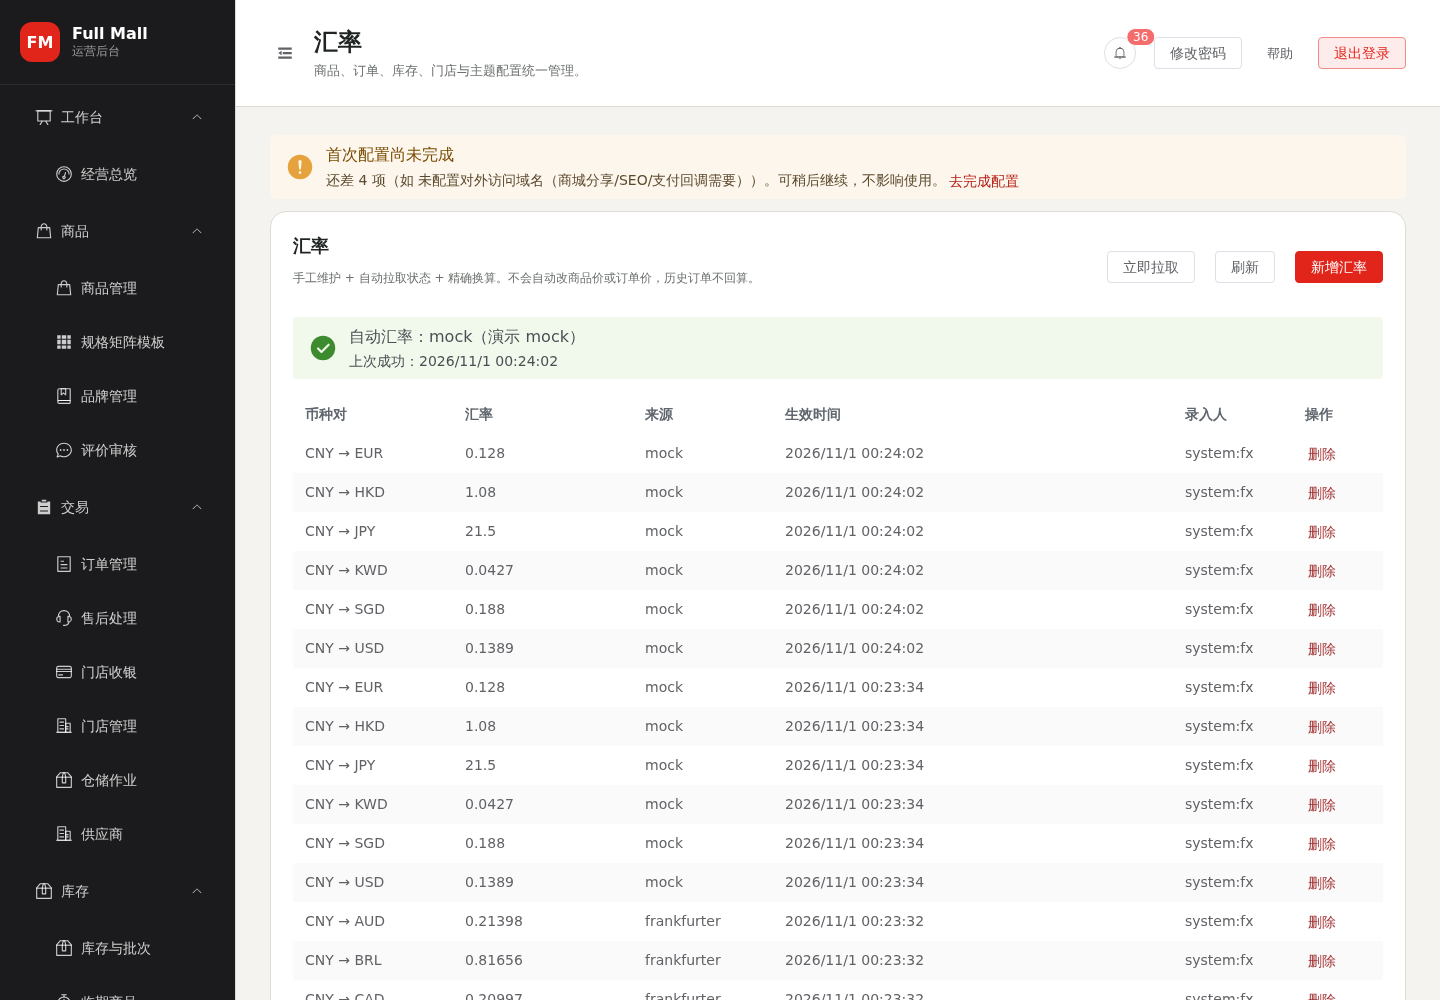
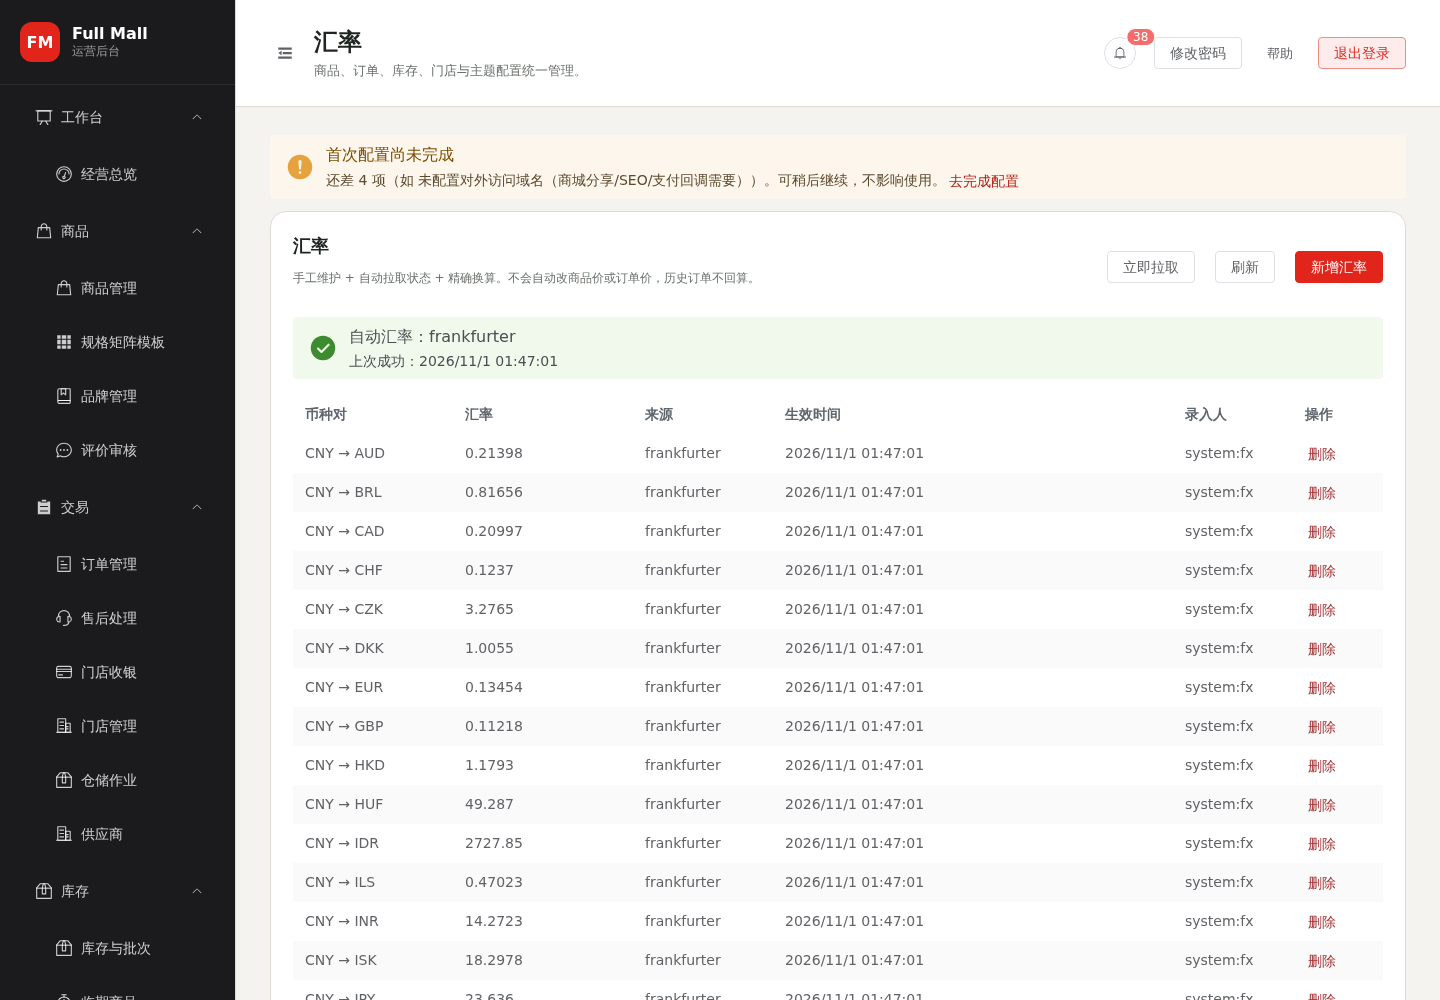
fix(fx): mock 只在 demo 模式未配置时兜底；dev/prod 未配置不自动拉取
用户纠正：Frankfurter 能正常用，不该恢复成 mock——三方服务未配置才用 mock。

- isDemoMock() 去掉 dev：resolveProviderCode 只在 app.mode=demo 且未配置时回 mock
- dev/prod 未配置 → 不自动拉取，继续手工汇率，应用照常启动
- demoMock 语义收紧：只有「未配置任何供应商 + demo」才为 true；显式选 mock 不算演示兜底
- 新增 ExchangeRateFetchModeTest 4 项（dev 不拉取 / demo 用 mock / 配置优先 / prod 未配置不写库）
- ADR-0017、依赖矩阵、ROUND5/新增 ROUND6 证据、SESSION_NOTES、admin 帮助与 HELP_INDEX 同步
- 运行环境 exchange_rate 已改回 frankfurter（api.frankfurter.dev/v1），mock disabled
- 记录 target root 属主坑：Maven 容器必须带 -u $(id -u):$(id -g)

回归：后端 816 tests / 0 failures；Playwright 62 passed / 0 failed / 3 skipped

diff --git a/web/apps/admin/src/help/catalog.ts b/web/apps/admin/src/help/catalog.ts
@@ -375,7 +375,7 @@ export const HELP_ENTRIES: HelpEntry[] = [
     ],
     tips: [
       '没有直接汇率时只允许反向推导（取倒数）；不做 A→B→C 多跳三角换算',
-      '自动拉取失败会保留上次自动/手工汇率；未配置供应商时只用手工汇率，不影响程序其它功能',
+      '自动拉取失败会保留上次自动/手工汇率；未配置供应商时只用手工汇率（只有演示模式才自动回落到 mock），不影响程序其它功能',
       '换算结果按目标币种小数位 HALF_UP（BigDecimal），不是固定两位',
       '汇率是财务配置，权限与系统设置一致（settings.manage）'
     ],

diff --git a/server/src/main/java/com/fullmall/exchange/app/ExchangeRateFetchService.java b/server/src/main/java/com/fullmall/exchange/app/ExchangeRateFetchService.java
@@ -17,8 +17,8 @@ import java.util.Map;
  *
  * <p>行为约定（用户明确要求）：
  * <ul>
- *   <li>生产未配置供应商：**不自动拉取**，继续用手工汇率；应用照常启动；</li>
- *   <li>演示模式（app.mode=demo）未配置：显式使用 mock，方便演示；</li>
+ *   <li>dev/prod 未配置供应商：**不自动拉取**，继续用手工汇率；应用照常启动；</li>
+ *   <li>只有演示模式（app.mode=demo）未配置时才用 mock 兜底；配了 Frankfurter 就用真实汇率；</li>
  *   <li>配置了但拉取失败：**保留上次自动/手工汇率**，只记录失败原因，不影响换算；</li>
  *   <li>拉取成功：写入新汇率（生效时间=现在），后续换算自然使用新值。</li>
  * </ul>
@@ -53,22 +53,30 @@ public class ExchangeRateFetchService {
 
     public Status status() {
         ensureStateRow();
+        String provider = resolveProviderCode();
+        // demoMock 只在"演示模式且没有配置任何供应商"时为真：显式选 mock 不算演示兜底
+        boolean demoFallback = provider != null && "mock".equals(provider)
+                && isBlankConfigured();
         var rows = jdbc.query("""
                 SELECT provider, last_attempt_at, last_success_at, last_error
                   FROM exchange_rate_fetch_state WHERE id = true
                 """, (rs, rowNum) -> new Status(
-                resolveProviderCode() != null,
-                rs.getString("provider") == null ? resolveProviderCode() : rs.getString("provider"),
-                isDemoMock(),
+                provider != null,
+                rs.getString("provider") == null ? provider : rs.getString("provider"),
+                demoFallback,
                 rs.getTimestamp("last_attempt_at") == null ? null
                         : rs.getTimestamp("last_attempt_at").toInstant(),
                 rs.getTimestamp("last_success_at") == null ? null
                         : rs.getTimestamp("last_success_at").toInstant(),
                 rs.getString("last_error")));
         return rows.isEmpty()
-                ? new Status(resolveProviderCode() != null, resolveProviderCode(), isDemoMock(),
-                null, null, null)
+                ? new Status(provider != null, provider, demoFallback, null, null, null)
                 : rows.get(0);
+    }
+
+    private boolean isBlankConfigured() {
+        String configured = integrations.enabledProvider("exchange_rate");
+        return configured == null || configured.isBlank();
     }
 
     /**
@@ -111,12 +119,13 @@ public class ExchangeRateFetchService {
         if (configured != null && !configured.isBlank()) {
             return configured.trim().toLowerCase(java.util.Locale.ROOT);
         }
-        // 演示模式显式使用 mock；生产/开发未配置则不做自动拉取
+        // mock 只是演示模式（app.mode=demo）且未配置供应商时的兜底；
+        // dev/prod 未配置一律不自动拉取——真实源（Frankfurter）配好后就用它，不拿固定值糊弄
         return isDemoMock() ? "mock" : null;
     }
 
     private boolean isDemoMock() {
-        return "demo".equals(mode) || "dev".equals(mode);
+        return "demo".equals(mode);
     }
 
     private ExchangeRateProvider provider(String code) {

diff --git a/server/src/test/java/com/fullmall/exchange/ExchangeRateFetchModeTest.java b/server/src/test/java/com/fullmall/exchange/ExchangeRateFetchModeTest.java
@@ -1,0 +1,63 @@
+package com.fullmall.exchange;
+
+import com.fullmall.exchange.app.ExchangeRateFetchService;
+import com.fullmall.exchange.app.ExchangeRateService;
+import com.fullmall.platform.secret.IntegrationConfigService;
+import org.junit.jupiter.api.Test;
+import org.springframework.jdbc.core.JdbcTemplate;
+
+import static org.assertj.core.api.Assertions.assertThat;
+import static org.mockito.ArgumentMatchers.anyString;
+import static org.mockito.Mockito.mock;
+import static org.mockito.Mockito.when;
+
+/**
+ * mock 只在 app.mode=demo 且未配置供应商时兜底；
+ * dev/prod 未配置一律不自动拉取（Frankfurter 可用时用真实汇率，不拿固定值糊弄）。
+ */
+class ExchangeRateFetchModeTest {
+
+    private final JdbcTemplate jdbc = mock(JdbcTemplate.class);
+    private final IntegrationConfigService integrations = mock(IntegrationConfigService.class);
+    private final ExchangeRateService rates = mock(ExchangeRateService.class);
+
+    @Test
+    void unconfiguredDevDoesNotFetch() {
+        when(integrations.enabledProvider("exchange_rate")).thenReturn(null);
+        var fetcher = new ExchangeRateFetchService(jdbc, integrations, rates, "CNY", "dev");
+
+        assertThat(fetcher.status().configured()).isFalse();
+        assertThat(fetcher.status().provider()).isNull();
+        assertThat(fetcher.status().demoMock()).isFalse();
+    }
+
+    @Test
+    void unconfiguredDemoUsesMock() {
+        when(integrations.enabledProvider("exchange_rate")).thenReturn(null);
+        var fetcher = new ExchangeRateFetchService(jdbc, integrations, rates, "CNY", "demo");
+
+        assertThat(fetcher.status().configured()).isTrue();
+        assertThat(fetcher.status().provider()).isEqualTo("mock");
+        assertThat(fetcher.status().demoMock()).isTrue();
+    }
+
+    @Test
+    void configuredProviderWinsOverDemoDefault() {
+        when(integrations.enabledProvider("exchange_rate")).thenReturn("frankfurter");
+        var fetcher = new ExchangeRateFetchService(jdbc, integrations, rates, "CNY", "demo");
+
+        assertThat(fetcher.status().provider()).isEqualTo("frankfurter");
+        assertThat(fetcher.status().demoMock()).isFalse();
+    }
+
+    @Test
+    void refreshWithoutConfigWritesNothing() {
+        when(integrations.enabledProvider(anyString())).thenReturn(null);
+        var fetcher = new ExchangeRateFetchService(jdbc, integrations, rates, "CNY", "prod");
+
+        var status = fetcher.refresh("test");
+
+        assertThat(status.configured()).isFalse();
+        org.mockito.Mockito.verifyNoInteractions(rates);
+    }
+}

diff --git a/docs/DEPENDENCY_AND_DEPLOYMENT_MATRIX.md b/docs/DEPENDENCY_AND_DEPLOYMENT_MATRIX.md
@@ -76,7 +76,7 @@
 | 自营对话模型端点 `https://company.binnarui.com:8500/v1`（`deepseek-v4.1-flash`，OpenAI 兼容、无 Key） | D 外部服务 | 运维在「AI 客服 → 模型供应商」登记 endpoint/model，无需 API Key | AI 问答返回 503 `AI_CHAT_NOT_CONFIGURED`；下单/后台其它功能不受影响 | 可换任意 `openai-chat` 兼容服务（自建 vLLM/Ollama、其它免费端点）；无 GPU 时优先远端 | `GET /admin/v1/ai/status` 看 `ready/chatModel`；再发一条 `/admin/v1/ai/ask` |
 | 关键词检索（`APP_AI_ASK_RETRIEVAL=KEYWORD`） | A 应用内 | 无外部依赖 | 无 | 召回质量低于向量检索；没有 embedding 服务时用它 | `/admin/v1/ai/status` 的 `retrieval` |
 | 本机 CPU embedding（`tools/embedding-service`，端口 41291，bge-small-zh-v1.5） | D→A 可选工具 | `cd tools/embedding-service && npm install --omit=dev && npm start`；模型首次从 hf-mirror 下到 `./models`（约 23MB） | 未启动/缺模型：SEMANTIC 模式 503 `AI_EMBEDDING_*`；不影响下单，可切回 KEYWORD | 离线把 `./models` 一起拷贝并设 `EMBEDDING_ALLOW_REMOTE=0`；也可换任意 `openai-embedding` 端点 | `GET :41291/health` 的 `loaded`；`/admin/v1/ai/semantic/reindex?kind=FAQ`；`/ai/ask` 返回 `retrieval=SEMANTIC` |
-| 自动汇率 Frankfurter（`https://api.frankfurter.dev/v1`，ECB 数据，免费无 Key） | D 外部服务（可选） | 运营在「第三方服务 → 自动汇率」选择；不需要 API Key，可填内网代理地址 | 未配置：不自动拉取，手工汇率可用，应用照常启动；拉取失败：保留上次自动/手工汇率 | 可换内网代理；演示/开发模式未配置时使用 mock | `GET /admin/v1/exchange-rates/provider` 的 `configured/lastSuccessAt/lastError`；`POST /refresh` |
+| 自动汇率 Frankfurter（`https://api.frankfurter.dev/v1`，ECB 数据，免费无 Key） | D 外部服务（可选） | 运营在「第三方服务 → 自动汇率」选择；不需要 API Key，可填内网代理地址 | 未配置：不自动拉取，手工汇率可用，应用照常启动；拉取失败：保留上次自动/手工汇率 | 可换内网代理；只有 `app.mode=demo` 未配置时才用 mock 兜底 | `GET /admin/v1/exchange-rates/provider` 的 `configured/lastSuccessAt/lastError`；`POST /refresh` |
 | 视觉模型（默认 `moondream`，1.7GB） | D→B 可选外部服务 | **不随镜像**，由运营在「AI 供应商」表单登记 endpoint/model | **不影响主流程**：未配置时「AI 识别」按钮禁用，接口返回 409 `AI_VISION_UNAVAILABLE` | 可换成远端公共模型（DashScope/OpenAI 兼容）或客户自建 CPU 推理服务；本地 ollama 不默认启动 | `GET /admin/v1/ai/providers/vision` 看 `configured` |
 | Ollama 容器（`--profile ai`，端口 41289） | B 运行期（可选） | 运维按需 `docker compose --profile ai up -d ollama` | 素材「AI 识别」不可用；素材库/生成/检索其余功能正常 | 不默认启动；无 GPU 也能跑（CPU 推理慢） | `docker exec fullmall-ollama-1 ollama list` |
 | 模型下载源 | C（一次性，人工） | 运维执行 `ollama pull <model>` | 无模型时上述 409 | 国内网络建议走 ModelScope / hf-mirror 的 GGUF，再 `ollama create`；docker 镜像可走 dockerproxy | `ollama list` 里有该模型 |

diff --git a/docs/GOAL_EVIDENCE_2026-11-01_ROUND6.md b/docs/GOAL_EVIDENCE_2026-11-01_ROUND6.md
@@ -1,0 +1,67 @@
+# 第六轮证据：自动汇率 mock 语义修正
+
+## 1. 用户纠正
+
+> 既然 `https://api.frankfurter.dev/v1` 能正常使用，为什么要用 mock？我是说三方服务未配置才用 mock。
+
+上一轮实现把 `dev` 与 `demo` 一并按“未配置用 mock”处理，且我在真机测试后把运行环境恢复成了
+`mock`。两处都错：**能用真实源时不该用固定值糊弄**。
+
+## 2. 修正后语义
+
+```text
+resolveProviderCode()：
+  已配置供应商（exchange_rate）      → 用配置的那个（frankfurter / mock）
+  未配置 + app.mode=demo            → mock 兜底（演示）
+  未配置 + app.mode=dev / prod      → 返回 null：不自动拉取，用手工汇率
+```
+
+`demoMock` 只在「未配置任何供应商 + demo 模式」为真；显式选 mock 不算演示兜底。
+
+## 3. 运行环境事实（已改回真实源）
+
+```text
+integration_config：exchange_rate/frankfurter enabled=t；mock enabled=f
+GET  /admin/v1/exchange-rates/provider
+→ {"configured":true,"provider":"frankfurter","demoMock":false,...}
+POST /admin/v1/exchange-rates/refresh
+→ 200 写入 source=frankfurter 的汇率（CNY→AUD 0.21398 等）
+```
+
+`app.mode=dev`（`.env`），未配置也不会自动拉取——现在配置了，所以用真实汇率。
+
+## 4. 测试
+
+新增 `ExchangeRateFetchModeTest`（4 项）：
+
+```text
+unconfiguredDevDoesNotFetch        → configured=false, provider=null, demoMock=false
+unconfiguredDemoUsesMock           → provider=mock, demoMock=true
+configuredProviderWinsOverDemoDefault
+                                   → provider=frankfurter, demoMock=false
+refreshWithoutConfigWritesNothing  → prod 未配置时不写任何汇率（verifyNoInteractions）
+```
+
+`ExchangeRateFetchServiceTest` 用 `app.mode=demo` 验证 mock 兜底路径仍然可用。
+
+## 5. 文档同步
+
+- ADR-0017：改为“只有 demo 未配置才用 mock；dev/prod 未配置不自动拉取”
+- 依赖矩阵、ROUND5 证据、SESSION_NOTES、admin 帮助与 `HELP_INDEX` 同步
+- 全仓已无 `演示/开发未配置用 mock` 与 `demo/dev` 旧表述
+
+## 6. 构建环境修复（顺带）
+
+`server/target` 里残留 278 个 **root 属主** 的 class（早前一次以 root 用户跑过 Maven 造成），
+导致非 root 容器覆盖写入失败：
+
+```text
+error while writing ...ArticleService$ArticleView.class
+```
+
+用 root 容器 `rm -rf server/target` 清理后重跑。结论：**Maven 容器必须带 `-u $(id -u):$(id -g)`**。
+
+## 7. 回归
+
+- 后端：`mvn clean test` 全量结果见交付报告
+- Playwright：全量结果见交付报告

diff --git a/docs/SESSION_NOTES.md b/docs/SESSION_NOTES.md
@@ -6,7 +6,7 @@
 ## 2026-10-31 / 自动汇率 + 退款汇率快照 + 金额去浮点
 
 - 已做并验证：
-  - 自动汇率：`exchange_rate` 集成能力（mock / Frankfurter，无 API Key）；演示/开发未配置用 mock，
+  - 自动汇率：`exchange_rate` 集成能力（mock / Frankfurter，无 API Key）；只有 demo 未配置才用 mock，
     生产未配置不自动拉取；失败保留上次/手工汇率；`GET /provider`、`POST /refresh`
   - 退款汇率：V7 `order_line_refund.fx_*`；退款仍原币种，允许退款时汇率与下单不同
   - 金额去浮点：POS 百分比券改 `Money.mulDiv`，砍价 1.05 改整数比例，
@@ -20,6 +20,11 @@
   - 自动汇率偏差告警未做
 - 环境事实：
   - migration 到 V7；`APP_FX_AUTO_INTERVAL_MS` 默认 3600000
+  - 运行环境 exchange_rate 已启用 **frankfurter**（`api.frankfurter.dev/v1`，旧 `.app` 域名 301），
+    mock 置为 disabled；mock 只在 `app.mode=demo` 且未配置时兜底，dev/prod 未配置不自动拉取
+  - 坑：`server/target` 曾有 278 个 root 属主 class（早前用 root 跑过 Maven），
+    非 root 容器写不进去 → `error while writing ...class`。用 root 容器 `rm -rf server/target` 清掉。
+    **Maven 容器一律带 `-u $(id -u):$(id -g)`**
   - 41281 Vite dev / 41280 API / embedding 41291
 
 ## 2026-10-31 / 订单汇率快照 + 积分按币种 + 测试债清零

diff --git a/docs/adr/0017-exchange-rate-phase1.md b/docs/adr/0017-exchange-rate-phase1.md
@@ -32,8 +32,8 @@ ADR-0004 曾承诺 `ExchangeRateProvider`，但仓库一直没有实现；多币
 8. **自动汇率（阶段 2）**：
    - 供应商通过「第三方服务 → 自动汇率」配置，当前支持免费无 Key 的 **Frankfurter（ECB）** 与演示 **mock**；
    - **不在数据库里保存 API Key**（当前供应商不需要）；未来需要 Key 的供应商走环境变量/密钥管理，不写库；
-   - 演示/开发模式（`app.mode=demo/dev`）未配置时显式使用 mock；生产（`prod`）未配置则**不自动拉取**，
-     继续使用手工汇率，应用照常启动；
+   - **只有演示模式（`app.mode=demo`）且未配置供应商**时才用 mock 兜底；
+     dev/prod 未配置一律**不自动拉取**，继续使用手工汇率，应用照常启动；配了 Frankfurter 就用真实汇率；
    - 配置后拉取失败：**保留上次自动/手工汇率**，只记录失败原因；成功才写入新汇率；
    - 自动拉取由定时任务触发（默认 1 小时），也可在后台「汇率」页点「立即拉取」。
 9. **只做直接汇率**：provider 返回什么就存什么；没有 A→B 时只允许用 B→A 反向推导。

diff --git a/docs/GOAL_EVIDENCE_2026-10-31_ROUND5.md b/docs/GOAL_EVIDENCE_2026-10-31_ROUND5.md
@@ -11,7 +11,7 @@
 
 行为：
   生产未配置         → 不自动拉取；手工汇率可用；应用正常启动
-  demo/dev 未配置    → 显式使用 mock
+  demo 未配置        → 才用 mock 兜底（dev/prod 未配置=不自动拉取）
   配置且拉取成功     → 写入 source=frankfurter/mock 的新汇率（生效时间=现在）
   配置但拉取失败     → 不写/不删任何汇率，保留上次自动或手工汇率；记录 lastError
   定时任务           → 默认 1 小时；也可在后台「汇率」页点「立即拉取」
@@ -73,5 +73,5 @@ order_line_refund 新增：
 
 ## 5. 回归
 
-- 全量后端：**812 tests / 0 failures / 0 errors**（clean test，244 个测试类）。
+- 全量后端：**816 tests / 0 failures / 0 errors**（第六轮补 4 项 mock 语义测试后 clean test，244 个测试类）。
 - Playwright：**62 passed / 0 failed / 3 skipped**。

diff --git a/docs/HELP_INDEX.md b/docs/HELP_INDEX.md
@@ -860,7 +860,7 @@
 **运营建议**
 
 - 没有直接汇率时只允许反向推导（取倒数）；不做 A→B→C 多跳三角换算
-- 自动拉取失败会保留上次自动/手工汇率；未配置供应商时只用手工汇率，不影响程序其它功能
+- 自动拉取失败会保留上次自动/手工汇率；未配置供应商时只用手工汇率（只有演示模式才自动回落到 mock），不影响程序其它功能
 - 换算结果按目标币种小数位 HALF_UP（BigDecimal），不是固定两位
 - 汇率是财务配置，权限与系统设置一致（settings.manage）
 
